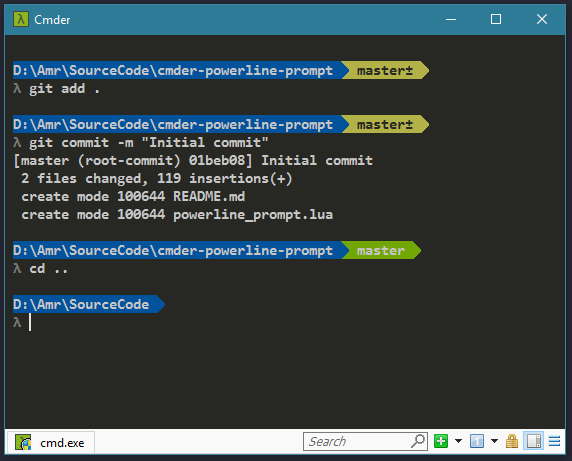
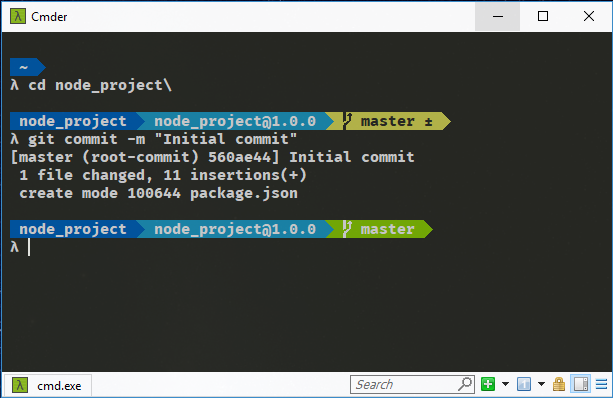
Added npm addon
Added npm addon. Docs. Updated README, Screenshots

diff --git a/README.md b/README.md
@@ -4,9 +4,12 @@ This is a custom prompt for [Cmder](http://cmder.net/) (the alternative console 
 It looks like this:  
 ![screenshot](screenshot.png)
 
-It has a blue background for the prompt.  
-For folders with git repos, you get yellow background for changes, and green for clean repos.  
-I'm using Consolas font.
+The prompt has multiple segments:  
+- Folder: in blue. Displays the folder name, or full path. Replaces the user's home folder with a tilde (~).  
+- npm: in teal. If it detects an npm package, it displays the package name and version number.  
+- Git: in green or yellow. If it detects a Git repo, it displays the branch name. A green color is used if no changes are detected. A yellow color is used if changes are found.  
+
+In the screenshot, [Fira Code](https://github.com/tonsky/FiraCode) font is used.  
 
 The look is inspired by [Powerline for Vim](https://github.com/powerline/powerline), and [Zsh's theme agnoster](https://github.com/agnoster/agnoster-zsh-theme).
 
@@ -23,11 +26,12 @@ To use another font and still show symbols correctly:
 * Choose Main console font to be what you prefer
 * Choose _Alternative font_ to be _Anonymice Powerline_
 * Modify the value of _Unicode ranges_ to add: `E0A0; E0B0;`
-  * for extra symbols set in `powerline_config.lua` (like npm logo for node module or git project for smart path resolving) set the _Alternative font_ to one of your choosing.
-    ![screenshot](fonts.png)
+  * for extra symbols set in `_powerline_config.lua` (like npm logo for node module or git project for smart path resolving) set the _Alternative font_ to one of your choosing.
+    ![screenshot](screenshot_fonts.png)
+  * The [Icomoon](https://icomoon.io/) includes npm and git symbols. You might find [nerd-fonts](https://github.com/ryanoasis/nerd-fonts) helpful as well.  
 * Save Settings
 
-# Usage
+# Setup
 
 Download the `.lua` files, and place it in `%CMDER_ROOT%/config` folder.  
 Restart Cmder to load the prompt.
@@ -36,7 +40,7 @@ Restart Cmder to load the prompt.
 `git clone https://github.com/AmrEldib/cmder-powerline-prompt.git git-repo-folder-name`  
 then create a symbolic link from the `%CMDER_ROOT%/config` folder to the `.lua` file.
 
-```
+```bat
 cd %CMDER_ROOT%/config  
 mklink /H powerline_core.lua <git-repo-folder-name>/powerline_core.lua
 mklink /H powerline_prompt.lua <git-repo-folder-name>/powerline_prompt.lua
@@ -44,25 +48,23 @@ mklink /H powerline_prompt.lua <git-repo-folder-name>/powerline_prompt.lua
 
 To add Git prompt, add the Git file
 
-```
+```bat
 mklink /H powerline_git.lua <git-repo-folder-name>/powerline_git.lua
 ```
 
 To add Configurations, create a file named `_powerline_config.lua` that is a copy of the file `_powerline_config.lua.sample`
 
+To add symbolic links across drives (from C drive pointing to D drive, for example), use PowerShell instead of `mklink`.  
+```powershell
+new-item -path powerline_core.lua -itemtype symboliclink -value <path to repo folder>\cmder-powerline-prompt\powerline_core.lua
+```
+
 ## Configuration
 
-You can modify the prompt to display either the full path, the folder name or the smart path showing only local path below your current Git folder.
-To do this, modify the value of the `promptValue` variable in the `_powerline_config.lua` setting `powerline_config_prompt_type` value.
-The value could be either:
+Config file is `_powerline_config.lua`. This file isn't created by default to avoid overwrite on future updates.  
+A sample config file is included: `_powerline_config.lua.sample`
 
-* `promptValueFull` for full path like `C:\Windows\System32`
-* `promptValueFolder` for folder name only like `System32`
-* `promptValueSmart` for folder `.` when in top of git project `C:\path\ProjectFromGit\`
-
-`promptValueFull` is the default.
-
-By setting `powerline_config_prompt_useHomeSymbol` to `true` in both smart and full mode you can force to shorten path in home directories to `~`.
+See the file `_powerline_config.lua.sample` for full list and details of configurations.  
 
 # Helpful info for customizing Cmder
 
@@ -90,14 +92,14 @@ The file `%CMDER_ROOT%\vendor\clink.lua` sets the command prompt. See the functi
 The prompt value is stored in [clink.prompt.value](https://github.com/mridgers/clink/blob/master/docs/api.md#clinkpromptvalue)  
 Drop .lua files into the `%CMDER_ROOT%\Config` folder to customize the prompt.
 
-# Status & Contribution
+# Status & Contributions
 
 I published this code because it's not nice to keep it to myself. I fix problems that I encounter, and try to fix problems that others encounter if I have time.  
-This code is provided with the timeless **Works on my Machine** gurentee.  
+This code is provided with the timeless **Works on my Machine** guarantee.  
 You can also check out the [pull requests page](/pulls) for contributions that didn't make back into this repo. These are fixes to problems I didn't encounter, or features not useful to me, but maybe useful to you.
 
 People are very kind and contribute back fixes and improvements.  
-This section is to acknowledage their contributions and thank them. If you find their contributions helpful to you, please take the time to thank them directly.
+This section is to acknowledge their contributions and thank them. If you find their contributions helpful to you, please take the time to thank them directly.
 
 * [omniphx](https://github.com/omniphx) [#2](https://github.com/AmrEldib/cmder-powerline-prompt/pull/2)
 * [umar-ahmed](https://github.com/umar-ahmed) [#6](https://github.com/AmrEldib/cmder-powerline-prompt/pull/6)
@@ -106,5 +108,11 @@ This section is to acknowledage their contributions and thank them. If you find 
 * [0NG](https://github.com/0NG) [#27](https://github.com/AmrEldib/cmder-powerline-prompt/pull/27)
 * [mattdkerr](https://github.com/mattdkerr) [#29](https://github.com/AmrEldib/cmder-powerline-prompt/pull/29)
 * [ivanjonas](https://github.com/ivanjonas) [#32](https://github.com/AmrEldib/cmder-powerline-prompt/pull/32)
+* [sp3c1](https://github.com/sp3c1) contributed the npm addon [#33](https://github.com/AmrEldib/cmder-powerline-prompt/pull/33)
 
 I'd like to thank all who share their code with everyone for their time and effort.
+
+# Writing an addon  
+This prompt uses an addon architecture to allow for additional functionality.  
+`powerline_prompt.lua` is a good example for how to write an addon. The code is annotated and explains how to write a new addon.  
+To write a new addon, create a new `lua` file in `%CMDER_ROOT%/config`. Start a new tab in Cmder to see the effect of changes.  

diff --git a/docs/ansi_escape_seq.md b/docs/ansi_escape_seq.md
@@ -22,3 +22,6 @@ Esc<b>[s</b> |	Save Cursor Position:<br/>Saves the current cursor position. You 
 Esc<b>[u</b> |	Restore Cursor Position:<br/>Returns the cursor to the position stored by the Save Cursor Position sequence.
 Esc<b>[2J</b> |	Erase Display:<br/>Clears the screen and moves the cursor to the home position (line 0, column 0).
 Esc<b>[K</b> |	Erase Line:<br/>Clears all characters from the cursor position to the end of the line (including the character at the cursor position). 
+Esc<b>[K</b> |	Erase Line:<br/>Clears all characters from the cursor position to the end of the line (including the character at the cursor position). 
+Esc<b>[</b>Value;...;Value<b>m</b> |	<b>Set Graphics Mode:</b><br/>Calls the graphics functions specified by the following values. These specified functions remain active until the next occurrence of this escape sequence. Graphics mode changes the colors and attributes of text (such as bold and underline) displayed on the screen. <br/> <table class="narrow table small_font"><tbody><tr class="title"><th colspan="2">Text attributes</th></tr>					<tr><th>0</th><td>All attributes off</td></tr><tr><th>1</th><td>Bold on</td></tr><tr><th>4</th><td>Underscore (on monochrome display adapter only)	</td></tr><tr><th>5</th><td>Blink on</td></tr><tr><th>7</th><td>Reverse video on</td></tr><tr><th>8</th><td>Concealed on</td></tr><tr><td colspan="2">&nbsp;</td></tr><tr class="title"><th colspan="2">Foreground colors</th></tr><tr><th>30</th><td>Black</td></tr><tr><th>31</th><td>Red</td></tr><tr><th>32</th><td>Green</td></tr><tr><th>33</th><td>Yellow</td></tr><tr><th>34</th><td>Blue</td></tr><tr><th>35</th><td>Magenta</td></tr><tr><th>36</th><td>Cyan</td></tr><tr><th>37</th><td>White</td></tr><tr><td colspan="2">&nbsp;</td></tr><tr class="title"><th colspan="2">Background colors	</th></tr><tr><th>40</th><td>Black</td></tr><tr><th>41</th><td>Red</td></tr><tr><th>42</th><td>Green</td></tr><tr><th>43</th><td>Yellow</td></tr><tr><th>44</th><td>Blue</td></tr><tr><th>45</th><td>Magenta</td></tr><tr><th>46</th><td>Cyan</td></tr><tr><th>47</th><td>White</td></tr></tbody></table>
+Esc<b>[</b>=Value<b>h</b> | <b>Set Mode</b>:<br/>Changes the screen width or type to the mode specified by one of the following values: <table class="narrow table small_font"><tbody><tr class="title"><th colspan="2">Screen resolution	</th></tr><tr><th> 0</th><td> 40 x  25 monochrome (text)</td></tr><tr><th> 1</th><td> 40 x  25 color (text)</td></tr><tr><th> 2</th><td> 80 x  25 monochrome (text)</td></tr><tr><th> 3</th><td> 80 x  25 color (text)</td></tr><tr><th> 4</th><td>320 x 200 4-color (graphics)</td></tr><tr><th> 5</th><td>320 x 200 monochrome (graphics)</td></tr><tr><th> 6</th><td>640 x 200 monochrome (graphics)</td></tr><tr><th> 7</th><td>Enables line wrapping</td></tr><tr><th>13</th><td>320 x 200 color (graphics)</td></tr><tr><th>14</th><td>640 x 200 color (16-color graphics)		</td></tr><tr><th>15</th><td>640 x 350 monochrome (2-color graphics)	</td></tr><tr><th>16</th><td>640 x 350 color (16-color graphics)		</td></tr><tr><th>17</th><td>640 x 480 monochrome (2-color graphics)	</td></tr><tr><th>18</th><td>640 x 480 color (16-color graphics)</td></tr><tr><th>19</th><td>320 x 200 color (256-color graphics)</td></tr></tbody></table>
